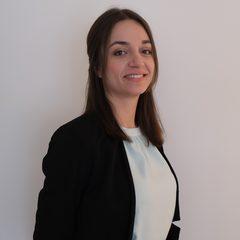
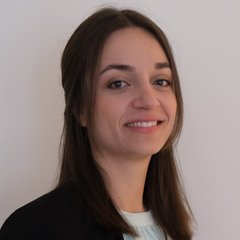
feat(contact): show a head-and-shoulders portrait beside the page title
The small portrait in the details column showed the full standing photo,
so the face was tiny. It moves next to the Contact title (150 px, 84 px on
small screens with the subtitle below), using a new head-and-shoulders
crop of profile-picture-contact.jpg for the 240w/480w files.

Claude-Session: https://claude.ai/code/session_01Y6GEnXFPQD3gbFxzHHToGw

diff --git a/src/app/pages/contact/contact.component.scss b/src/app/pages/contact/contact.component.scss
@@ -7,8 +7,49 @@
 }
 
 .contact-header {
+    display: flex;
+    align-items: center;
+    gap: 1.75rem;
     text-align: left;
     margin-bottom: 2rem;
+
+    .contact-portrait {
+        flex-shrink: 0;
+        width: 150px;
+        height: 150px;
+        object-fit: cover;
+        border-radius: 6px;
+        box-shadow: 0 10px 26px -14px rgba(21, 44, 64, 0.5);
+    }
+
+    .contact-subtitle {
+        margin-bottom: 0;
+    }
+
+    // Small screens: photo beside the title, subtitle on the full width below
+    @media (max-width: 575px) {
+        display: grid;
+        grid-template-columns: 84px 1fr;
+        gap: 0.9rem 1rem;
+
+        .contact-header-text {
+            display: contents;
+        }
+
+        .contact-portrait {
+            width: 84px;
+            height: 84px;
+        }
+
+        .contact-title {
+            justify-self: start;
+            margin-bottom: 0;
+        }
+
+        .contact-subtitle {
+            grid-column: 1 / -1;
+        }
+    }
 
     .contact-title {
         font-size: 2.5rem;

diff --git a/src/app/pages/contact/contact.component.html b/src/app/pages/contact/contact.component.html
@@ -1,8 +1,15 @@
 <div class="page-container">
     <main class="contact-main" id="main-content">
         <section class="contact-header">
-            <h1 class="contact-title page-title">{{ 'contact.title' | translate }}</h1>
-            <p class="contact-subtitle">{{ 'contact.subtitle' | translate }}</p>
+            <img class="contact-portrait"
+                 src="../../../assets/img/profile-picture-contact-240w.jpg"
+                 srcset="../../../assets/img/profile-picture-contact-240w.jpg 1x, ../../../assets/img/profile-picture-contact-480w.jpg 2x"
+                 width="150" height="150"
+                 [alt]="'home.portraitAlt' | translate">
+            <div class="contact-header-text">
+                <h1 class="contact-title page-title">{{ 'contact.title' | translate }}</h1>
+                <p class="contact-subtitle">{{ 'contact.subtitle' | translate }}</p>
+            </div>
         </section>
 
         <div class="contact-layout" [class.contact-layout--with-form]="contactForm">

diff --git a/src/app/components/contact-summary/contact-summary.component.html b/src/app/components/contact-summary/contact-summary.component.html
@@ -1,11 +1,6 @@
 <div class="contact-summary-card">
     <div class="content">
         <div class="identity">
-            <img class="identity-photo"
-                 src="../../../assets/img/profile-picture-contact-240w.jpg"
-                 srcset="../../../assets/img/profile-picture-contact-240w.jpg 1x, ../../../assets/img/profile-picture-contact-480w.jpg 2x"
-                 width="120" height="120"
-                 alt="">
             <div>
                 <h2>Aurélie Manier</h2>
                 <p class="subtitle">{{ 'footer.tagline' | translate }}</p>

diff --git a/src/app/components/contact-summary/contact-summary.component.scss b/src/app/components/contact-summary/contact-summary.component.scss
@@ -15,14 +15,6 @@
         margin-bottom: 0.25rem;
     }
 
-    .identity-photo {
-        flex-shrink: 0;
-        width: 72px;
-        height: 72px;
-        object-fit: cover;
-        border: 4px solid $light;
-    }
-
     h2 {
         font-size: 1.3rem;
         font-weight: 700;
